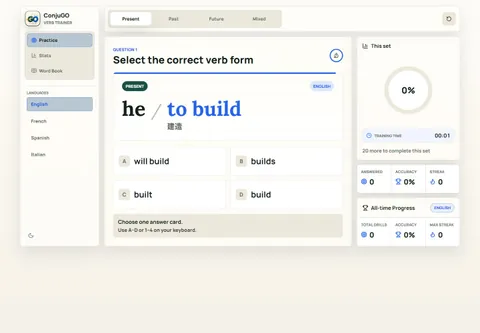
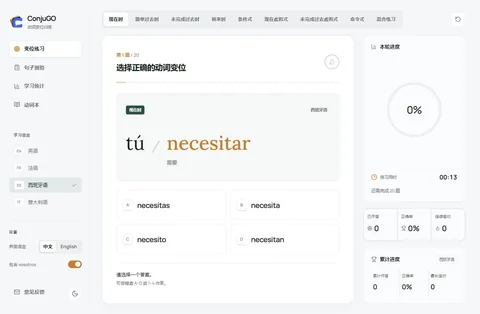
Refresh ConjuGO showcase screenshot

diff --git a/README.md b/README.md
@@ -114,7 +114,7 @@ pnpm preview
 
 ### 素材维护
 
-精选素材位于 `public/images/projects/`。Voce 使用登录后的 Vocabulary timeline 截图，可见最新单词 `traveling`；ConjuGO 为练习界面。海豚英语线上连接及本地后端加载未成功，因此采用现有吉祥物。后续可替换为新的产品截图，并同步 `src/components/Showcase.tsx`。
+精选素材位于 `public/images/projects/`。Voce 使用登录后的 Vocabulary timeline 截图，可见最新单词 `traveling`；ConjuGO 已于 2026-11-01 更新为新版浅色练习界面的真实截图，包含语言侧栏、变位选择题与进度统计，并同步更新 480 / 960 像素 WebP 缩略图及尺寸元数据。海豚英语线上连接及本地后端加载未成功，因此采用现有吉祥物。后续可替换为新的产品截图，并同步 `src/components/Showcase.tsx`。
 
 ### 验证命令
 
